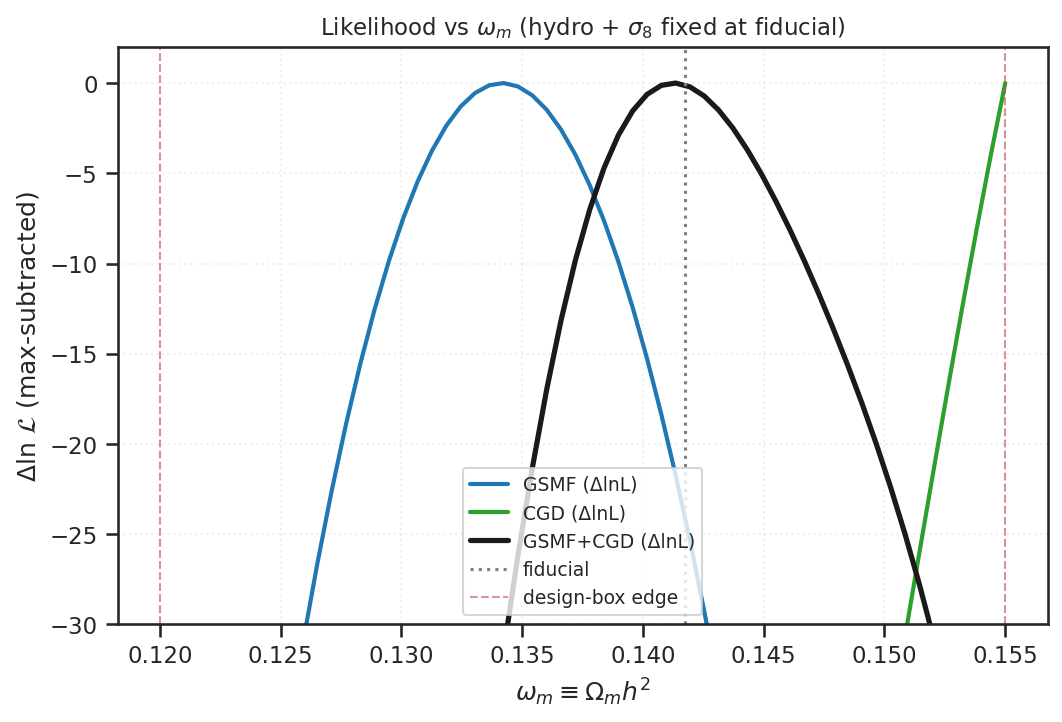
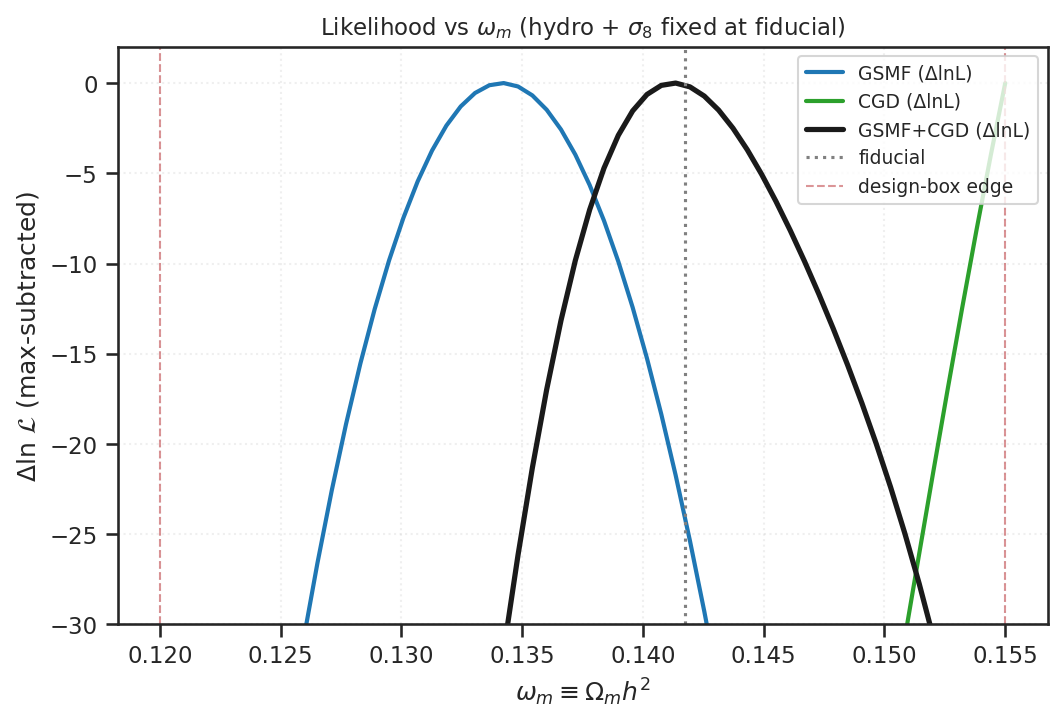
j24

diff --git a/Inference/diagnostics/likelihood_sweep_cosmo.py b/Inference/diagnostics/likelihood_sweep_cosmo.py
@@ -98,7 +98,7 @@ def plot_sweep(grid, res, xlabel, fid, edge_lo, edge_hi, title, fname):
     ax.set_ylim(-30, 2)
     ax.set_xlabel(xlabel); ax.set_ylabel(r'$\Delta \ln\,\mathcal{L}$ (max-subtracted)')
     ax.set_title(title, fontsize=11)
-    ax.legend(fontsize=9, loc='lower center'); ax.grid(True, ls=':', alpha=0.3)
+    ax.legend(fontsize=9, loc='upper right'); ax.grid(True, ls=':', alpha=0.3)
     p = os.path.join(OUT, fname)
     fig.savefig(p, dpi=150, bbox_inches='tight'); plt.close(fig)
     print(f'wrote {p}')
@@ -141,7 +141,7 @@ def _panel(ax, fig, OM, S8, field, om_grid, s8_grid, title, cbar_label):
     ax.set_title(title, fontsize=11)
     ax.set_xlabel(r'$\omega_m \equiv \Omega_m h^2$')
     ax.set_ylabel(r'$\sigma_8$')
-    ax.legend(loc='upper left', fontsize=8, framealpha=0.85)
+    ax.legend(loc='upper right', fontsize=8, framealpha=0.85)
     fig.colorbar(pcm, ax=ax, label=cbar_label, shrink=0.85)
 
 
